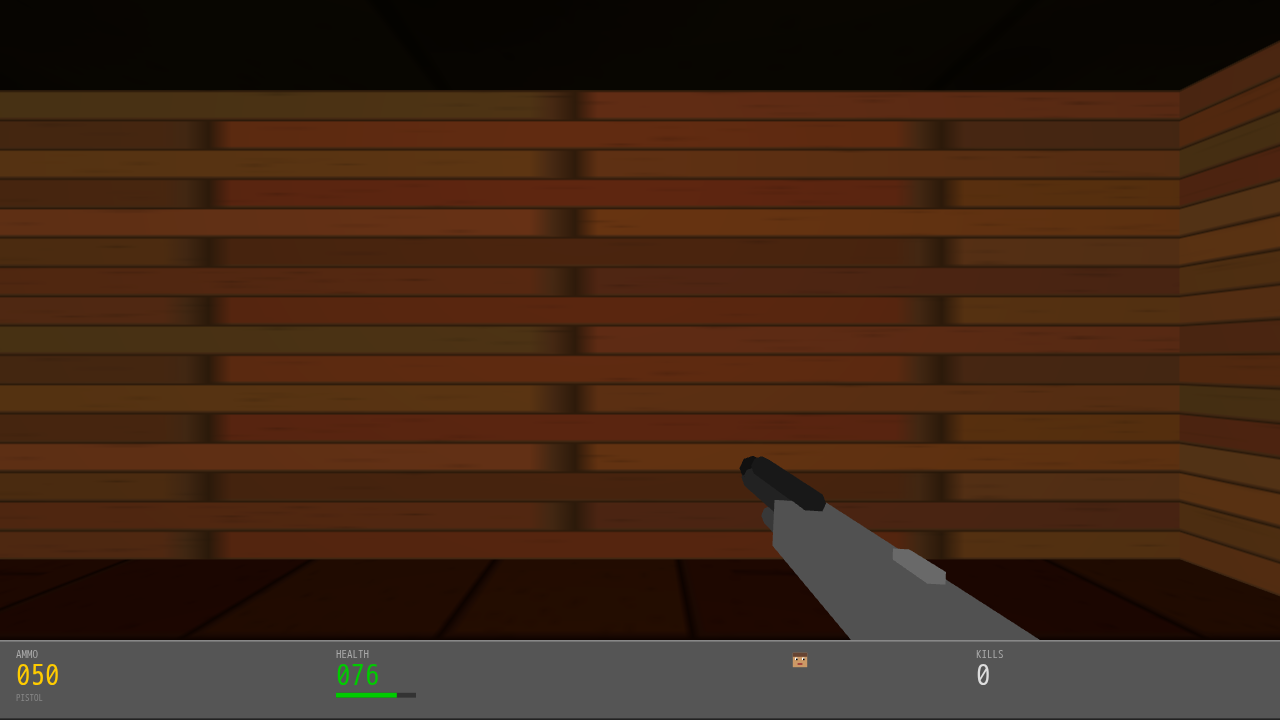
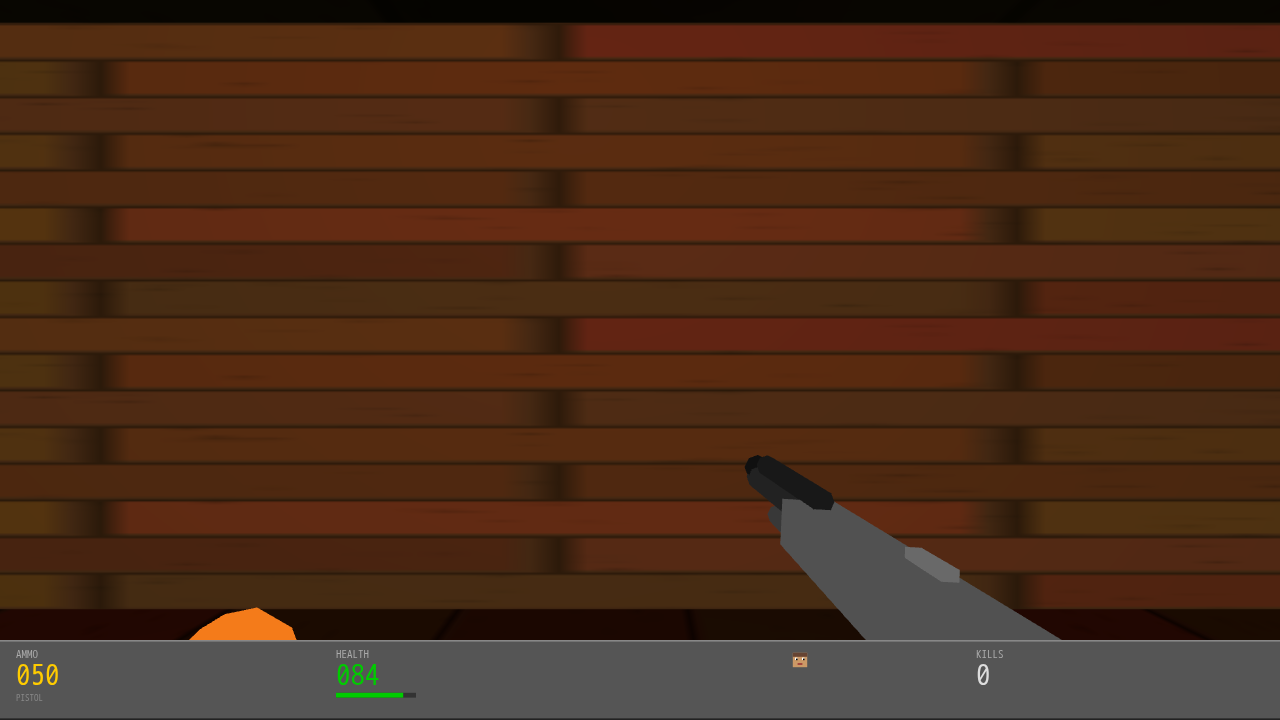
Player bullet projectiles, fix muzzle flash timing (same clock), exit pointer lock on death for easy restart

diff --git a/src/Weapons.tsx b/src/Weapons.tsx
@@ -11,11 +11,12 @@ interface WeaponsProps {
 export default function Weapons({ shooting, lastShot }: WeaponsProps): React.JSX.Element {
   const gunGroupRef = useRef<Group>(null);
   const muzzleRef = useRef<Mesh>(null);
+  const muzzleRingRef = useRef<Mesh>(null);
   const recoilRef = useRef(0);
   const prevShootingRef = useRef(false);
   const { camera } = useThree();
 
-  useFrame((state) => {
+  useFrame(() => {
     // Recoil animation
     if (recoilRef.current > 0) {
       recoilRef.current = Math.max(0, recoilRef.current - 0.15);
@@ -23,8 +24,8 @@ export default function Weapons({ shooting, lastShot }: WeaponsProps): React.JSX
 
     const recoil = recoilRef.current;
 
-    // Walking bob - sinusoidal like real Doom
-    const time = state.clock.getElapsedTime();
+    // Walking bob
+    const time = performance.now() / 1000;
     const bobFreq = 10;
     const sway = Math.sin(time * bobFreq) * 0.006;
     const bob = Math.abs(Math.sin(time * bobFreq)) * 0.01;
@@ -37,7 +38,6 @@ export default function Weapons({ shooting, lastShot }: WeaponsProps): React.JSX
 
     const gunGroup = gunGroupRef.current;
     if (gunGroup) {
-      // Local offset in camera space
       const offset = new THREE.Vector3(
         0.22 + sway,
         -0.22 + bob - recoil * 0.08,
@@ -51,10 +51,15 @@ export default function Weapons({ shooting, lastShot }: WeaponsProps): React.JSX
       gunGroup.rotateZ(-0.06 + recoil * -0.08);
     }
 
-    // Muzzle flash visibility
+    // Muzzle flash: only visible for 70ms after shot
+    const now = performance.now() / 1000;
+    const timeSinceShot = now - lastShot;
+    const flashVisible = timeSinceShot >= 0 && timeSinceShot < 0.07;
     if (muzzleRef.current) {
-      const timeSinceShot = state.clock.getElapsedTime() - lastShot;
-      muzzleRef.current.visible = timeSinceShot < 0.07;
+      muzzleRef.current.visible = flashVisible;
+    }
+    if (muzzleRingRef.current) {
+      muzzleRingRef.current.visible = flashVisible;
     }
   });
 
@@ -62,49 +67,49 @@ export default function Weapons({ shooting, lastShot }: WeaponsProps): React.JSX
     <>
       {/* FPS Shotgun - follows camera */}
       <group ref={gunGroupRef}>
-        {/* Main receiver/body - wider box */}
+        {/* Main receiver/body */}
         <mesh>
           <boxGeometry args={[0.07, 0.06, 0.35]} />
           <meshBasicMaterial color={0x555555} />
         </mesh>
 
-        {/* Barrel - long cylinder pointing forward */}
+        {/* Barrel - lower */}
         <mesh position={[0, 0.01, -0.28]} rotation={[Math.PI / 2, 0, 0]}>
           <cylinderGeometry args={[0.018, 0.022, 0.28, 8]} />
           <meshBasicMaterial color={0x333333} />
         </mesh>
 
-        {/* Second barrel (over-under style) */}
+        {/* Second barrel (over-under) */}
         <mesh position={[0, 0.04, -0.25]} rotation={[Math.PI / 2, 0, 0]}>
           <cylinderGeometry args={[0.015, 0.018, 0.24, 8]} />
           <meshBasicMaterial color={0x2a2a2a} />
         </mesh>
 
-        {/* Barrel shroud / magazine tube below barrel */}
+        {/* Magazine tube below */}
         <mesh position={[0, -0.025, -0.2]} rotation={[Math.PI / 2, 0, 0]}>
           <cylinderGeometry args={[0.016, 0.016, 0.2, 8]} />
           <meshBasicMaterial color={0x444444} />
         </mesh>
 
-        {/* Pump/forend - wooden grip sliding on barrel */}
+        {/* Pump/forend */}
         <mesh position={[0, -0.01, -0.12]}>
           <boxGeometry args={[0.045, 0.045, 0.1]} />
           <meshBasicMaterial color={0x8B5A2B} />
         </mesh>
 
-        {/* Stock - wooden stock extending back */}
+        {/* Stock */}
         <mesh position={[0, -0.01, 0.15]}>
           <boxGeometry args={[0.05, 0.055, 0.18]} />
           <meshBasicMaterial color={0x7A4B2A} />
         </mesh>
 
-        {/* Stock butt - wider at end */}
+        {/* Stock butt */}
         <mesh position={[0, -0.01, 0.27]}>
           <boxGeometry args={[0.05, 0.07, 0.04]} />
           <meshBasicMaterial color={0x6B3E20} />
         </mesh>
 
-        {/* Grip/pistol grip */}
+        {/* Grip */}
         <mesh position={[0, -0.05, 0.06]} rotation={[0.2, 0, 0]}>
           <boxGeometry args={[0.035, 0.06, 0.03]} />
           <meshBasicMaterial color={0x7A4B2A} />
@@ -116,30 +121,29 @@ export default function Weapons({ shooting, lastShot }: WeaponsProps): React.JSX
           <meshBasicMaterial color={0x444444} />
         </mesh>
 
-        {/* Ejection port on top */}
+        {/* Ejection port */}
         <mesh position={[0.02, 0.035, 0.05]}>
           <boxGeometry args={[0.015, 0.01, 0.05]} />
           <meshBasicMaterial color={0x666666} />
         </mesh>
 
-        {/* Barrel end cap / muzzle brake */}
+        {/* Muzzle brake */}
         <mesh position={[0, 0.025, -0.42]} rotation={[Math.PI / 2, 0, 0]}>
           <cylinderGeometry args={[0.024, 0.024, 0.02, 8]} />
           <meshBasicMaterial color={0x222222} />
         </mesh>
 
-        {/* Muzzle flash - bigger and more dramatic */}
-        <group position={[0, 0.025, -0.45]}>
-          <mesh ref={muzzleRef} visible={false}>
-            <sphereGeometry args={[0.06, 8, 8]} />
-            <meshBasicMaterial color={0xffcc00} transparent opacity={0.95} />
-          </mesh>
-          {/* Flash glow ring */}
-          <mesh visible={false}>
-            <ringGeometry args={[0.03, 0.08, 8]} />
-            <meshBasicMaterial color={0xff6600} transparent opacity={0.6} side={2} />
-          </mesh>
-        </group>
+        {/* Muzzle flash sphere */}
+        <mesh ref={muzzleRef} position={[0, 0.025, -0.45]} visible={false}>
+          <sphereGeometry args={[0.06, 8, 8]} />
+          <meshBasicMaterial color={0xffcc00} transparent opacity={0.95} />
+        </mesh>
+
+        {/* Muzzle flash glow ring */}
+        <mesh ref={muzzleRingRef} position={[0, 0.025, -0.45]} rotation={[0, 0, 0]} visible={false}>
+          <ringGeometry args={[0.03, 0.08, 8]} />
+          <meshBasicMaterial color={0xff6600} transparent opacity={0.6} side={2} />
+        </mesh>
       </group>
     </>
   );

diff --git a/src/Game.tsx b/src/Game.tsx
@@ -259,10 +259,30 @@ export default function Game({ onPlayerState, onGameOver, mobileMoveRef, mobileL
     camera.lookAt(lookTarget);
     camera.updateMatrixWorld(true);
 
-    // Shooting
+    // Shooting - player projectiles
     if (player.shooting && now - player.lastShot > 0.25 && player.ammo > 0) {
       player.ammo--;
       player.lastShot = now;
+
+      // Spawn player bullet projectile
+      const camDir = new THREE.Vector3();
+      camera.getWorldDirection(camDir);
+      const bulletDir: [number, number, number] = [camDir.x, camDir.y, camDir.z];
+      const bulletPos: [number, number, number] = [
+        camera.position.x + camDir.x * 1.5,
+        camera.position.y + camDir.y * 0.5 - 0.1,
+        camera.position.z + camDir.z * 1.5,
+      ];
+      const bullet: ProjectileData = {
+        id: projectileIdRef.current++,
+        position: bulletPos,
+        direction: bulletDir,
+        speed: 40,
+        fromEnemy: false,
+        color: "#ffff44",
+        life: 1.5,
+      };
+      projectilesRef.current = [...projectilesRef.current, bullet];
 
       const raycaster = new THREE.Raycaster();
       raycaster.setFromCamera(new THREE.Vector2(0, 0), camera);

diff --git a/src/App.tsx b/src/App.tsx
@@ -104,7 +104,10 @@ export default function App(): React.JSX.Element {
         <fog attach="fog" args={["#3d2e1e", 20, 120]} />
         <Game
           onPlayerState={setPlayerState}
-          onGameOver={(): void => { setGameOver(true); }}
+          onGameOver={(): void => {
+            setGameOver(true);
+            document.exitPointerLock();
+          }}
           mobileMoveRef={mobileMoveRef}
           mobileLookRef={mobileLookRef}
         />